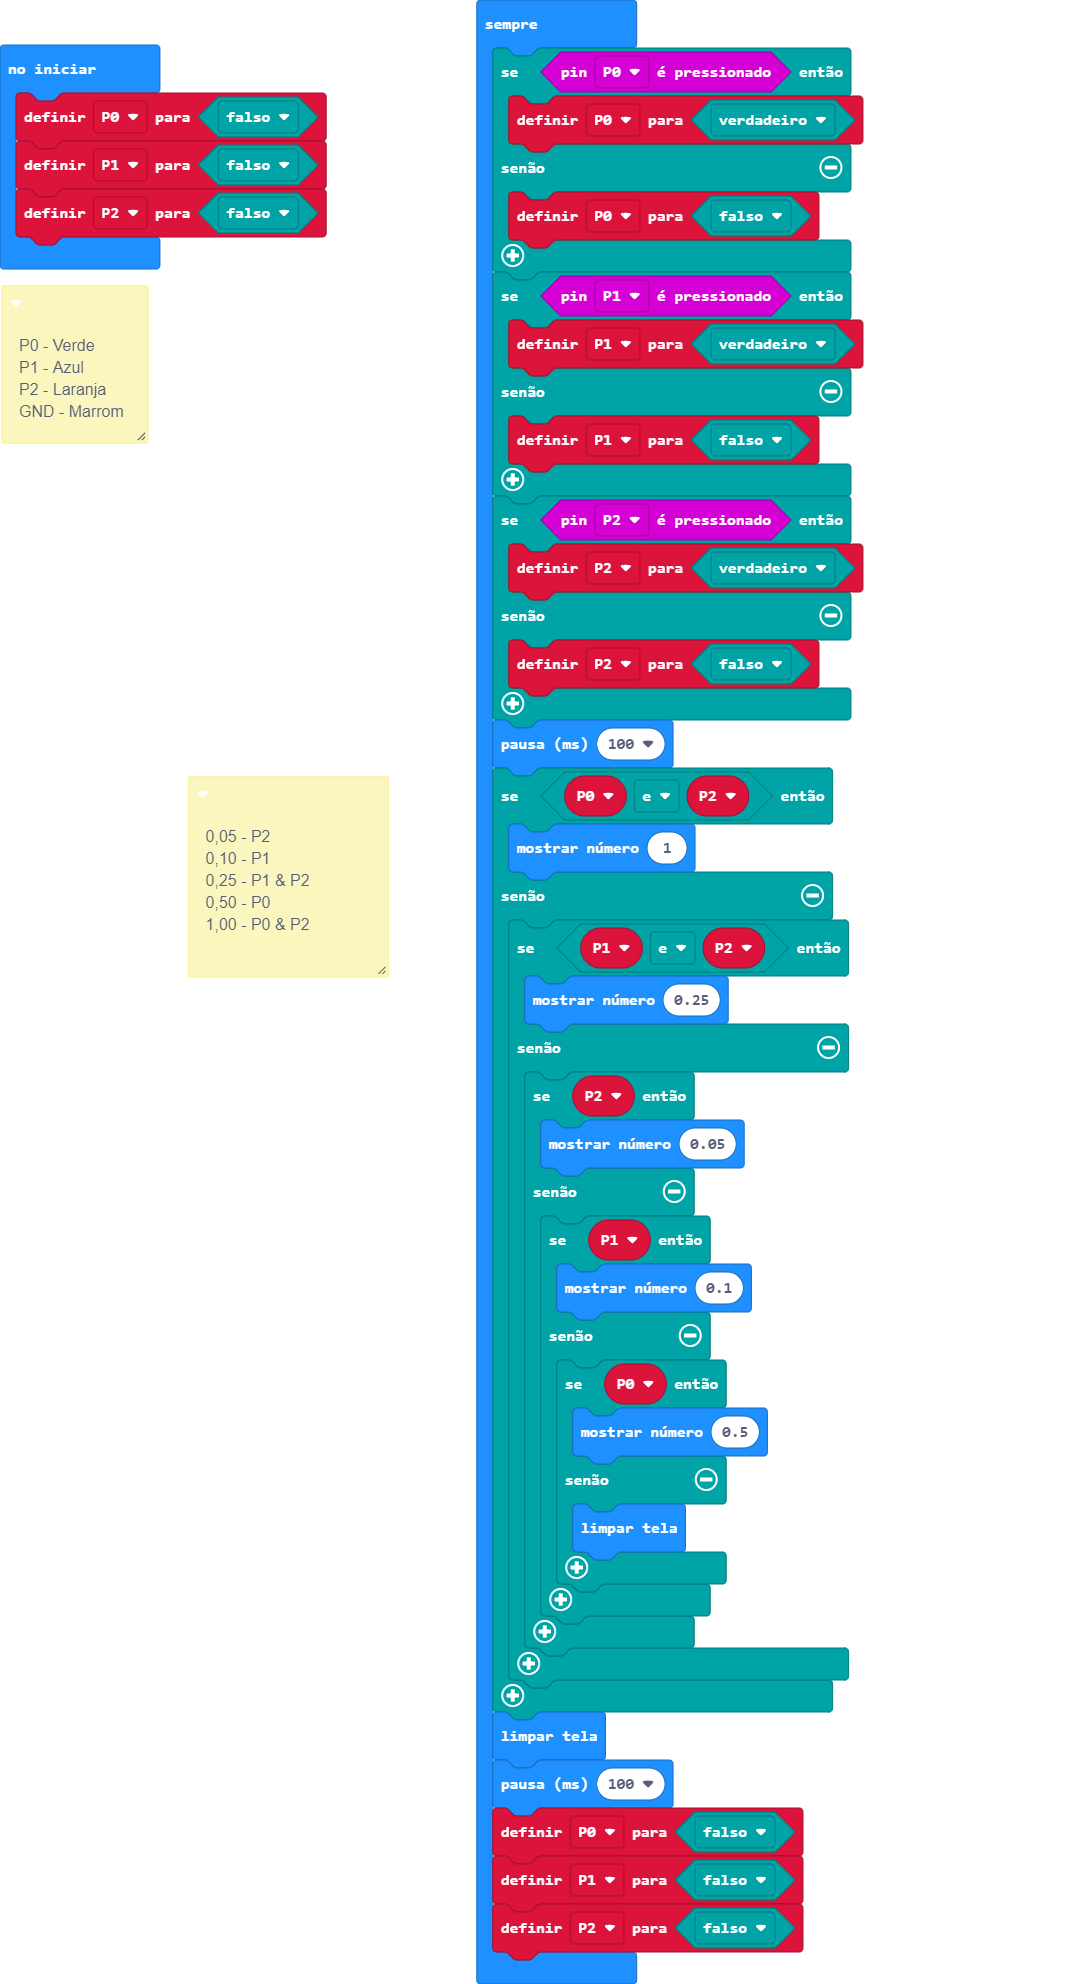
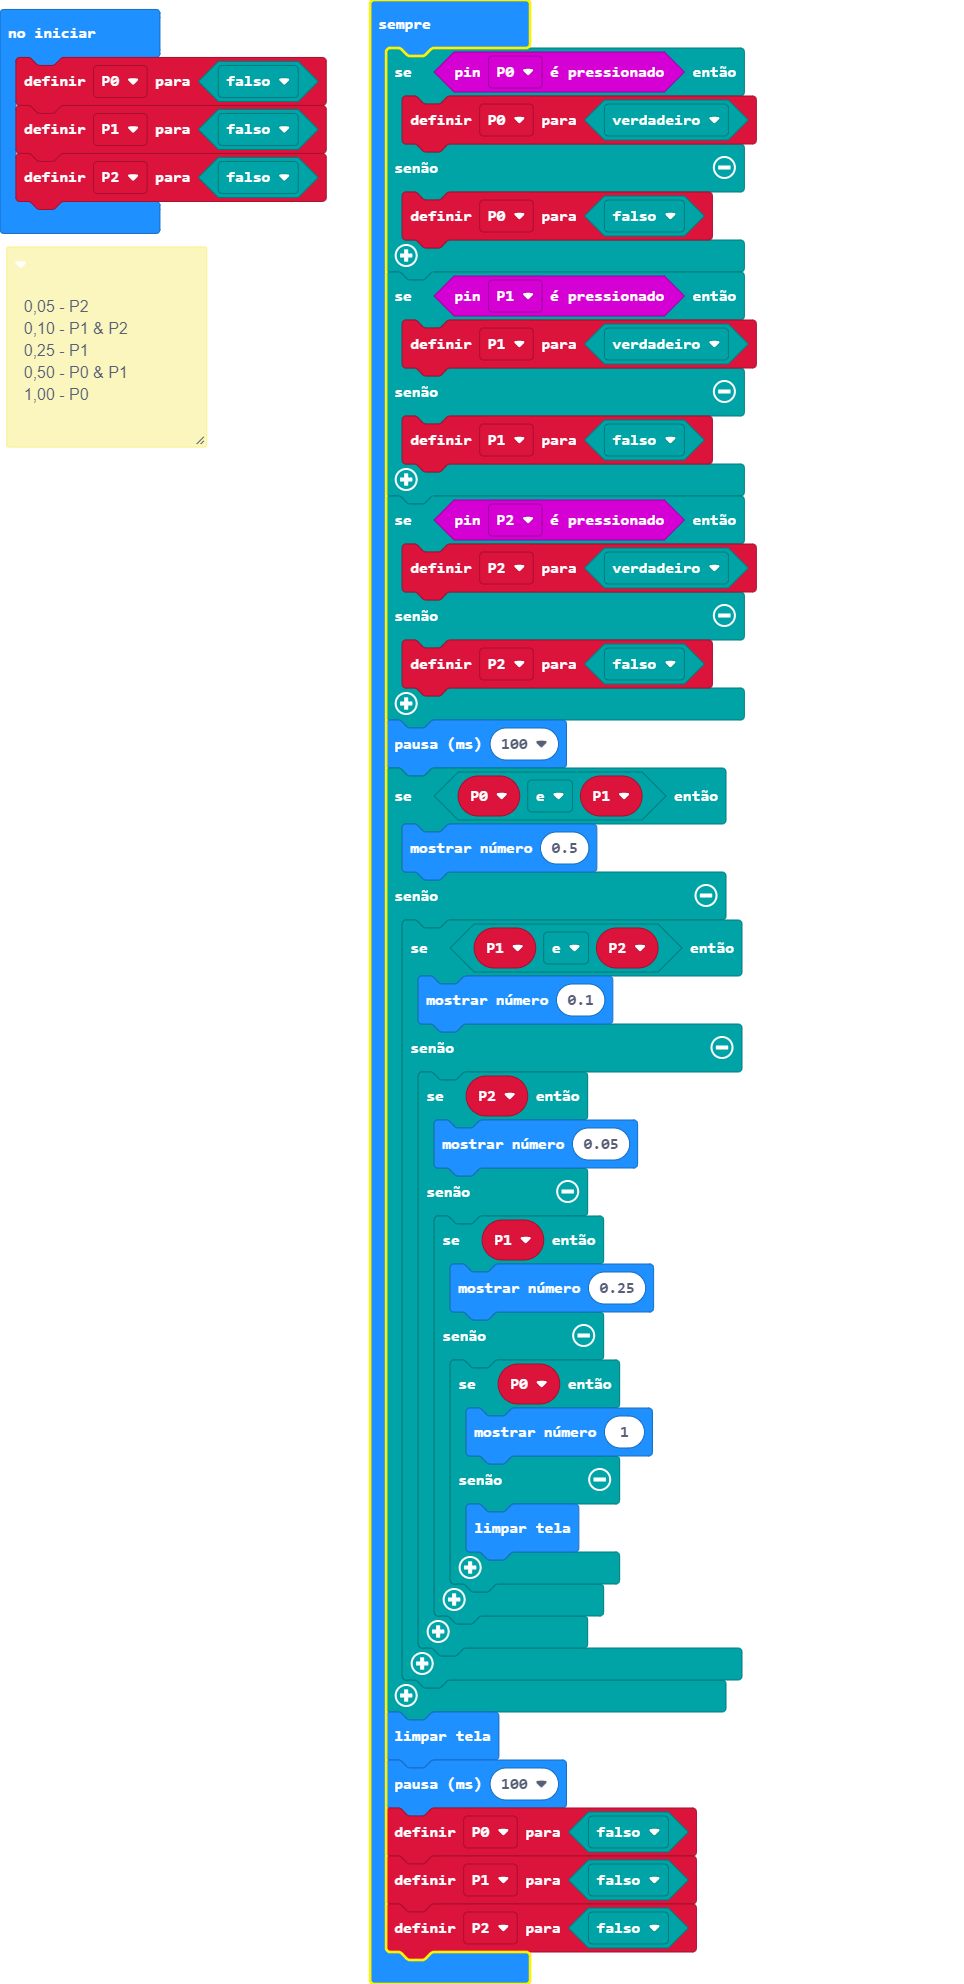
Update main.blocks, main.ts

Changed region(s): [[0.1556, 0.0, 0.8091, 1.0], [0.0, 0.0, 0.3423, 0.25], [0.7469, 0.8125, 0.8091, 0.875]]

diff --git a/main.ts b/main.ts
@@ -1,22 +1,13 @@
 /**
  * 0,05 - P2
  * 
- * 0,10 - P1
+ * 0,10 - P1 & P2
  * 
- * 0,25 - P1 & P2
+ * 0,25 - P1 
  * 
- * 0,50 - P0
+ * 0,50 - P0 & P1
  * 
- * 1,00 - P0 & P2
- */
-/**
- * P0 - Verde
- * 
- * P1 - Azul
- * 
- * P2 - Laranja
- * 
- * GND - Marrom
+ * 1,00 - P0
  */
 let P0 = false
 let P1 = false
@@ -38,20 +29,20 @@ basic.forever(function () {
         P2 = false
     }
     basic.pause(100)
-    if (P0 && P2) {
-        basic.showNumber(1)
+    if (P0 && P1) {
+        basic.showNumber(0.5)
     } else {
         if (P1 && P2) {
-            basic.showNumber(0.25)
+            basic.showNumber(0.1)
         } else {
             if (P2) {
                 basic.showNumber(0.05)
             } else {
                 if (P1) {
-                    basic.showNumber(0.1)
+                    basic.showNumber(0.25)
                 } else {
                     if (P0) {
-                        basic.showNumber(0.5)
+                        basic.showNumber(1)
                     } else {
                         basic.clearScreen()
                     }
